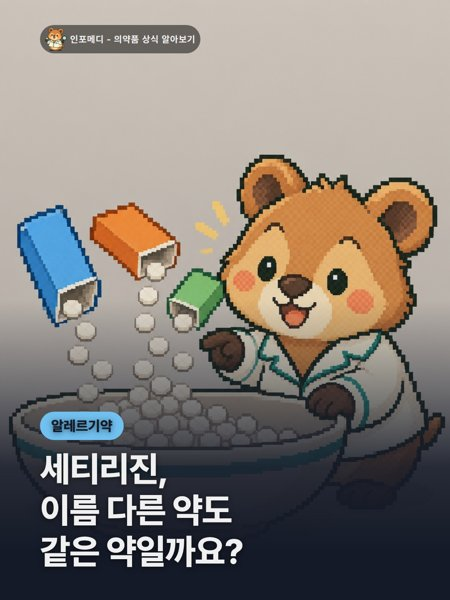
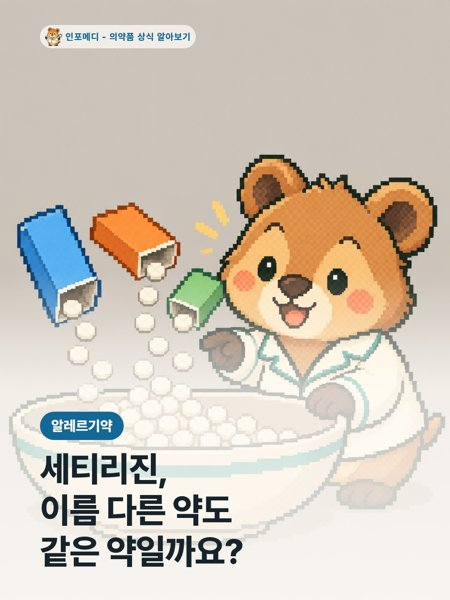
links

diff --git a/index.html b/index.html
@@ -34,7 +34,7 @@
 <section class="section">
 <h2>의약품 정보 <small id="count"></small></h2>
 <div class="grid" id="list">
-<a class="item" href="https://blog.naver.com/info_medi_/224428921200"><img src="c/세티리진-white.jpg" alt="" loading="lazy">
+<a class="item" href="https://blog.naver.com/info_medi_/224428921200"><img src="c/세티리진.jpg" alt="" loading="lazy">
 <span><b>세티리진, 이름 다른 약도 같은 약일까요?</b><small><time datetime="2026-10-10 12:24"></time></small></span></a>
 <a class="item" href="https://blog.naver.com/info_medi_/224427721155"><img src="c/에스트라디올.jpg" alt="" loading="lazy">
 <span><b>에스트라디올, 폐경 뒤 어떤 증상에 쓰는 약일까요?</b><small><time datetime="2026-10-10 07:50"></time></small></span></a>
